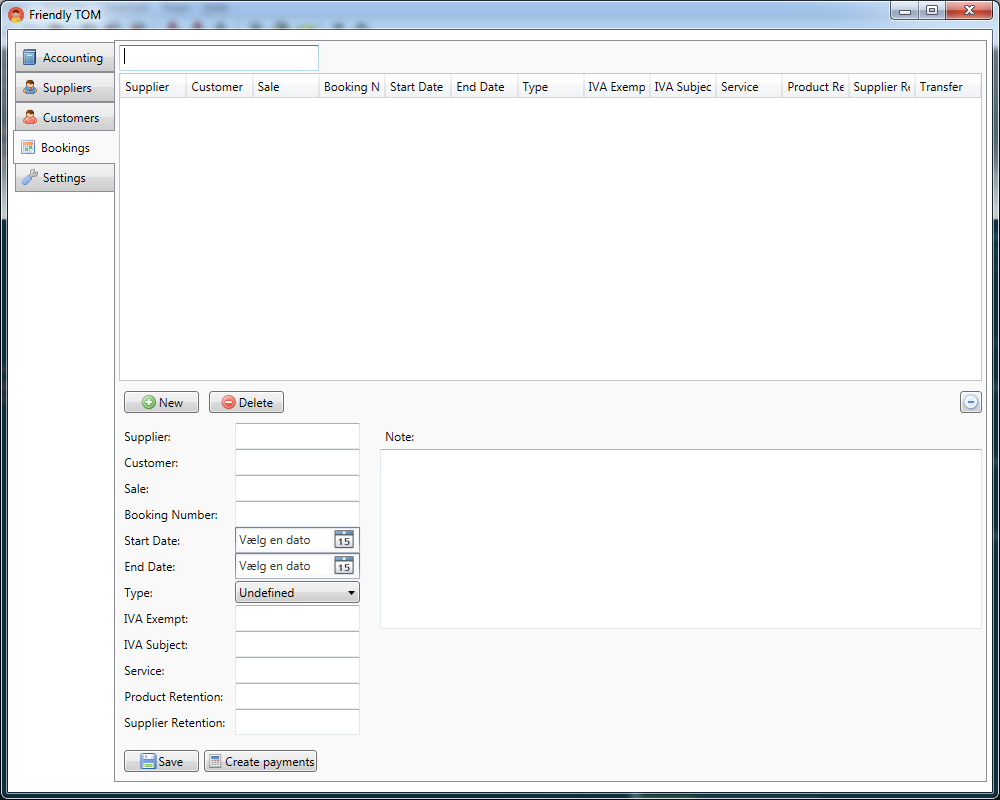
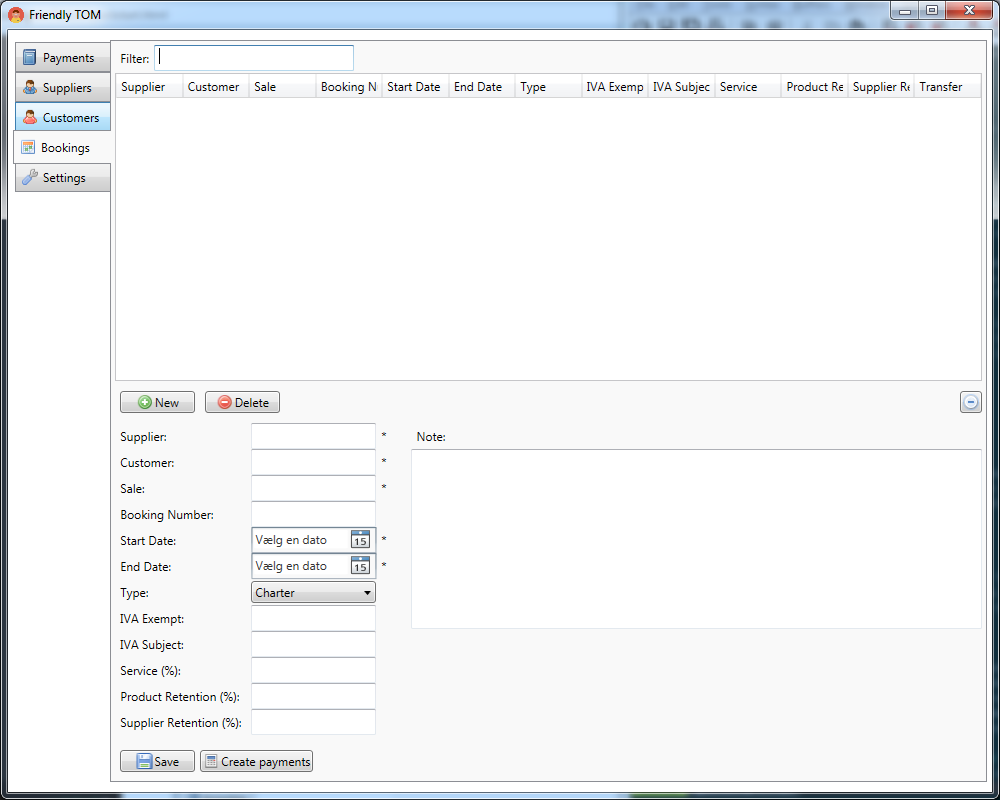
update documentation

diff --git a/doc/quickstart.rst b/doc/quickstart.rst
@@ -6,7 +6,7 @@
 .. |PaymentRules| replace:: :guilabel:`Payment Rules`
 .. |Bookings| replace:: |Booking-icon| :guilabel:`Bookings`
 .. |CreatePayments| replace:: |CreatePayment-icon| :guilabel:`Create payments`
-.. |Accounting| replace:: |Accounting-icon| :guilabel:`Accounting`
+.. |Payments| replace:: |Payments-icon| :guilabel:`Payments`
 .. |Outgoing| replace:: |Outgoing-icon| :guilabel:`Outgoing`
 .. |Archive| replace:: |Archive-icon| :guilabel:`Archive`
 
@@ -17,7 +17,7 @@
 .. |Supplier-icon| image:: images/icons/supplier.png
 .. |Booking-icon| image:: images/icons/booking.png
 .. |CreatePayment-icon| image:: images/icons/createpayments.png
-.. |Accounting-icon| image:: images/icons/accounting.png
+.. |Payments-icon| image:: images/icons/payments.png
 .. |Outgoing-icon| image:: images/icons/outgoing.png
 .. |Archive-icon| image:: images/icons/archive.png
 
@@ -52,10 +52,13 @@ represent two special customers: ``Lonely Tree`` is your own company and
 ``Any`` will be used to represent any customer - we'll get back to that later.
 
 You can add your own customer by entering the name of the customer and 
-selecting an appropriate customer type. Let's add the bureau 
+selecting an appropriate customer type. Let's add the agency 
 called ``Awesome Travels``:
 
 .. image:: images/addawesometravels.png
+
+Note that required fields are marked with an asterisk, like :guilabel:`Name` in
+the above picture.
 
 Now click |Save| to add the customer:
 
@@ -128,10 +131,11 @@ list on the right:
 
 .. note::
 
-    IF you want to make a payment rule for a supplier that is valid for any
+    If you want to make a payment rule for a supplier that is valid for any
     customer, you should select the ``Any`` customer - makes sense, right? If
-    payment rules exists for a specific customer, these will be used instead of 
-    those defined for ``Any``.
+    payment rules exist for a specific customer, these will override those
+    those defined for ``Any`` when creating payments for that specific
+    customer.
 
 Now that you have defined a payment rule, you can go ahead and place a booking!
 
@@ -168,7 +172,7 @@ seems like nothing happened, but don't be fooled!
 Checking Payments
 -----------------
 
-Click the |Accounting| tab in the left-hand pane. This screen shows you all
+Click the |Payments| tab in the left-hand pane. This screen shows you all
 incoming payments. Then click the |Outgoing| tab in the top center and you'll
 see your outgoing payments. It should look like this:
 
